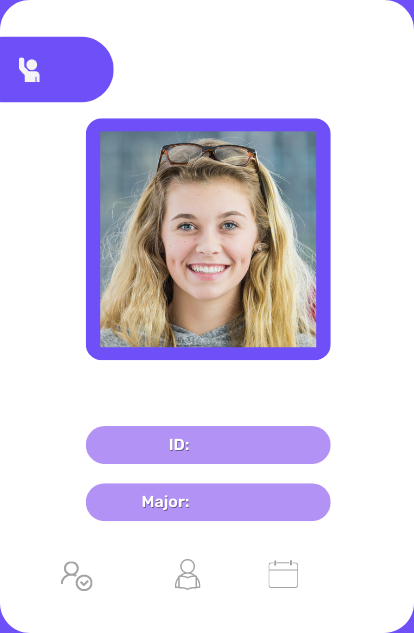
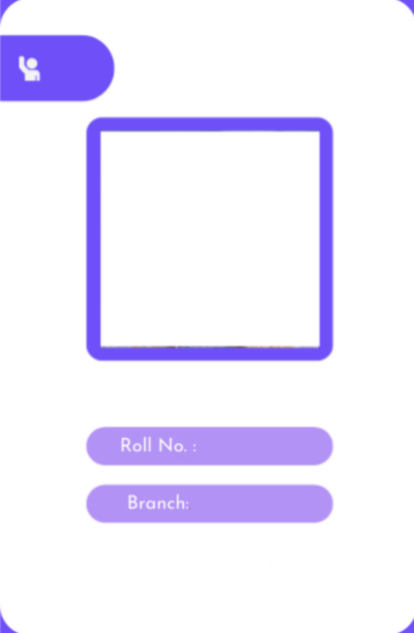
Second Commit

diff --git a/main.py b/main.py
@@ -69,15 +69,18 @@ while True:
     if faceCurFrame:
         for encodeFace, faceLoc in zip(encodeCurFrame,faceCurFrame):
             matches = face_recognition.compare_faces(encodeListKnown,encodeFace)
+            print("\nmatches",matches)
             faceDist = face_recognition.face_distance(encodeListKnown,encodeFace)
+            print("faceDist",faceDist)
             #print("matches",matches)
             #print("faceDistance", faceDist)
 
 
             matchIndex = np.argmin(faceDist)
             #print("Match Index", matchIndex)
+            print("Match Index ",matchIndex)
 
-            if matches[matchIndex]:
+            if matches[matchIndex] and faceDist[matchIndex]<0.50:
                 #print("Roll no: ",StudentIds[matchIndex])
                 y1, x2, y2, x1 = faceLoc
                 y1, x2, y2, x1 = y1*4, x2*4, y2*4, x1*4
@@ -88,12 +91,13 @@ while True:
                 if counter == 0:
                     counter = 1
                     modeType = 1
-
+            # else:
+            #     print("Face not available in Database")
         if counter !=0 :
             if counter == 1:
                 # get the data
                 studentInfo = db.reference(f'Students/{id}').get()
-                print(studentInfo)
+                # print(studentInfo)
 
                 #get the image from the storage
                 blob = bucket.get_blob(f'images/{id}.jpg')
@@ -101,15 +105,15 @@ while True:
                 imgStudent = cv2.imdecode(array, cv2.COLOR_BGRA2BGR)
 
                 #update data of attendance
-                datetimeObject = datetime.strptime(studentInfo['last_attendance_tim'],
+                datetimeObject = datetime.strptime(studentInfo['last_attendance_time'],
                                                 "%Y-%m-%d %H:%M:%S")    
                 secondsElapsed = (datetime.now()-datetimeObject).total_seconds()
-                print(secondsElapsed)
-                if secondsElapsed > 30:
+                # print(secondsElapsed)
+                if secondsElapsed > 60:
                     ref = db.reference(f'Students/{id}')
                     studentInfo['total_attendance'] += 1
                     ref.child('total_attendance').set(studentInfo['total_attendance'])
-                    ref.child('last_attendance_tim').set(datetime.now().strftime("%Y-%m-%d %H:%M:%S"))
+                    ref.child('last_attendance_time').set(datetime.now().strftime("%Y-%m-%d %H:%M:%S"))
                 else:
                     modeType = 3
                     counter = 0
@@ -118,7 +122,7 @@ while True:
             
             if modeType != 3:
 
-                if 10<counter<20:
+                if 10<counter<60:
                     modeType = 2
                 imgBackground[44:44+633 , 808:808+414] = imgModeList[modeType]
 
@@ -127,11 +131,11 @@ while True:
                     (w,h),_ = cv2.getTextSize(studentInfo['name'],cv2.FONT_HERSHEY_COMPLEX,1,1)
                     offset = (414-w)//2
                     cv2.putText(imgBackground,str(studentInfo['name']),(808+offset,445), cv2.FONT_HERSHEY_COMPLEX,1,(100,100,100),1)
-                    cv2.putText(imgBackground,str(studentInfo['Course']),(1006,550), cv2.FONT_HERSHEY_COMPLEX,0.5,(255,255,255),1)
+                    cv2.putText(imgBackground,str(studentInfo['Branch']),(1006,550), cv2.FONT_HERSHEY_COMPLEX,0.5,(255,255,255),1)
                     cv2.putText(imgBackground,str(id),(1006,493), cv2.FONT_HERSHEY_COMPLEX,0.5,(255,255,255),1)
-                    cv2.putText(imgBackground,str(studentInfo['standing']),(910,625), cv2.FONT_HERSHEY_COMPLEX,0.6,(100,100,100),1)
-                    cv2.putText(imgBackground,str(studentInfo['Passing Year']),(1025,625), cv2.FONT_HERSHEY_COMPLEX,0.6,(100,100,100),1)
-                    cv2.putText(imgBackground,str(studentInfo['last_attendance_tim']),(1125,625), cv2.FONT_HERSHEY_COMPLEX,0.6,(100,100,100),1)
+                    cv2.putText(imgBackground,str(studentInfo['Class']),(910,625), cv2.FONT_HERSHEY_COMPLEX,0.6,(100,100,100),1)
+                    cv2.putText(imgBackground,str(studentInfo['Year']),(1025,625), cv2.FONT_HERSHEY_COMPLEX,0.6,(100,100,100),1)
+                    cv2.putText(imgBackground,str(studentInfo['last_attendance_time']),(1125,625), cv2.FONT_HERSHEY_COMPLEX,0.6,(100,100,100),1)
 
 
                     imgBackground[175:175+216,909:909+216] = imgStudent
@@ -139,7 +143,7 @@ while True:
             
                 counter+=1
 
-                if counter>=20:
+                if counter>=60:
                     counter = 0
                     modeType = 0
                     studentInfo = []

diff --git a/PicFaceAttendance.py b/PicFaceAttendance.py
@@ -1,0 +1,29 @@
+import face_recognition
+import pickle
+from PIL import Image
+import pybind11
+
+file = open('EncodeFile.p', 'rb')
+encodeListKnownWithIDS = pickle.load(file)
+file.close()
+encodeListKnown, StudentIds = encodeListKnownWithIDS
+
+known_image = face_recognition.load_image_file("group2.jpg")
+#unknown_image = face_recognition.load_image_file("3.png")
+face_loc = face_recognition.face_locations(known_image)
+
+List_encoding = face_recognition.face_encodings(known_image)
+print(len(List_encoding))
+
+#Adil_encoding = face_recognition.face_encodings(known_image)[1]
+#unknown_encoding = face_recognition.face_encodings(unknown_image)[0]
+for i in range(len(List_encoding)):
+    top, right, bottom, left = face_loc[i]
+    results = face_recognition.compare_faces(List_encoding[i], encodeListKnown)
+    print(results)
+    for j in range(len(results)):
+        if results[j] == True:
+            print(StudentIds[j])
+            face_image = known_image[top:bottom, left:right]
+            pil_image = Image.fromarray(face_image)
+            pil_image.show()

diff --git a/AddDataToDatabase.py b/AddDataToDatabase.py
@@ -12,13 +12,24 @@ firebase_admin.initialize_app(cred, {
 ref = db.reference('Students')
 
 data = {
-    "3":{
-    "name" : "Adil Shaikh",
-    "Course" : "B-Tech",
-    "Passing Year" : 2024,
-    "total_attendance" : 5,
-    "standing" : "VG",
-    "last_attendance_time" : "2023-6-"
+
+    "146":{
+    "name" : "Aarya Redekar",
+    "Branch" : "COMPS",
+    "Year" : "TE",
+    "total_attendance" : 2,
+    "Class" : "C3",
+    "last_attendance_time" : "2023-04-03 18:06:17"
+    },
+
+
+    "150":{
+    "name" : "Soham Sanghvi",
+    "Branch" : "COMPS",
+    "Year" : "TE",
+    "total_attendance" : 1,
+    "Class" : "C3",
+    "last_attendance_time" : "2023-04-03 18:06:17"
     }
 }
 

diff --git a/EncodeGenerator.py b/EncodeGenerator.py
@@ -28,6 +28,7 @@ for path in PathList:
     imgList.append(cv2.imread(os.path.join(folderPath, path)))
     StudentIds.append(os.path.splitext(path)[0])
 
+    #for database access
     fileName = f'{folderPath}/{path}'
     bucket = storage.bucket()
     blob = bucket.blob(fileName)
@@ -40,7 +41,7 @@ def findEncodings(imagesList):
     for img in imagesList:
         #converting bgr image color(used by opencv) to RGB image (used by face-recogntiion)
         img = cv2.cvtColor(img, cv2.COLOR_BGR2RGB)
-        encode = face_recognition.face_encodings(img)[0]
+        encode = face_recognition.face_encodings(img)[0] 
         encodeList.append(encode)
 
     return encodeList
